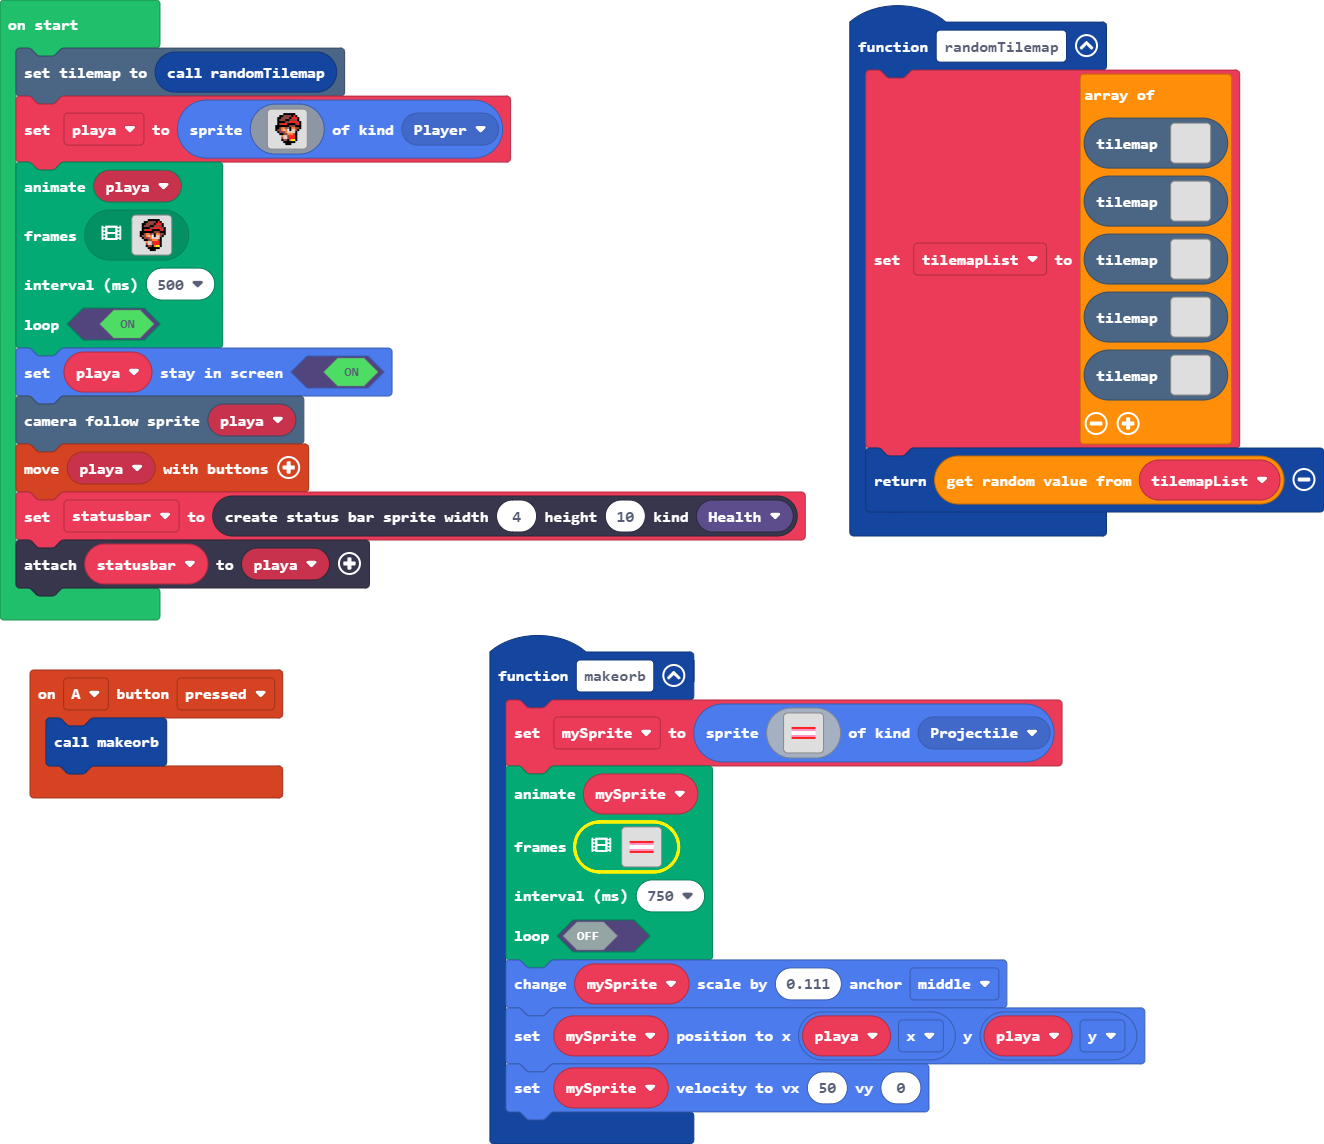
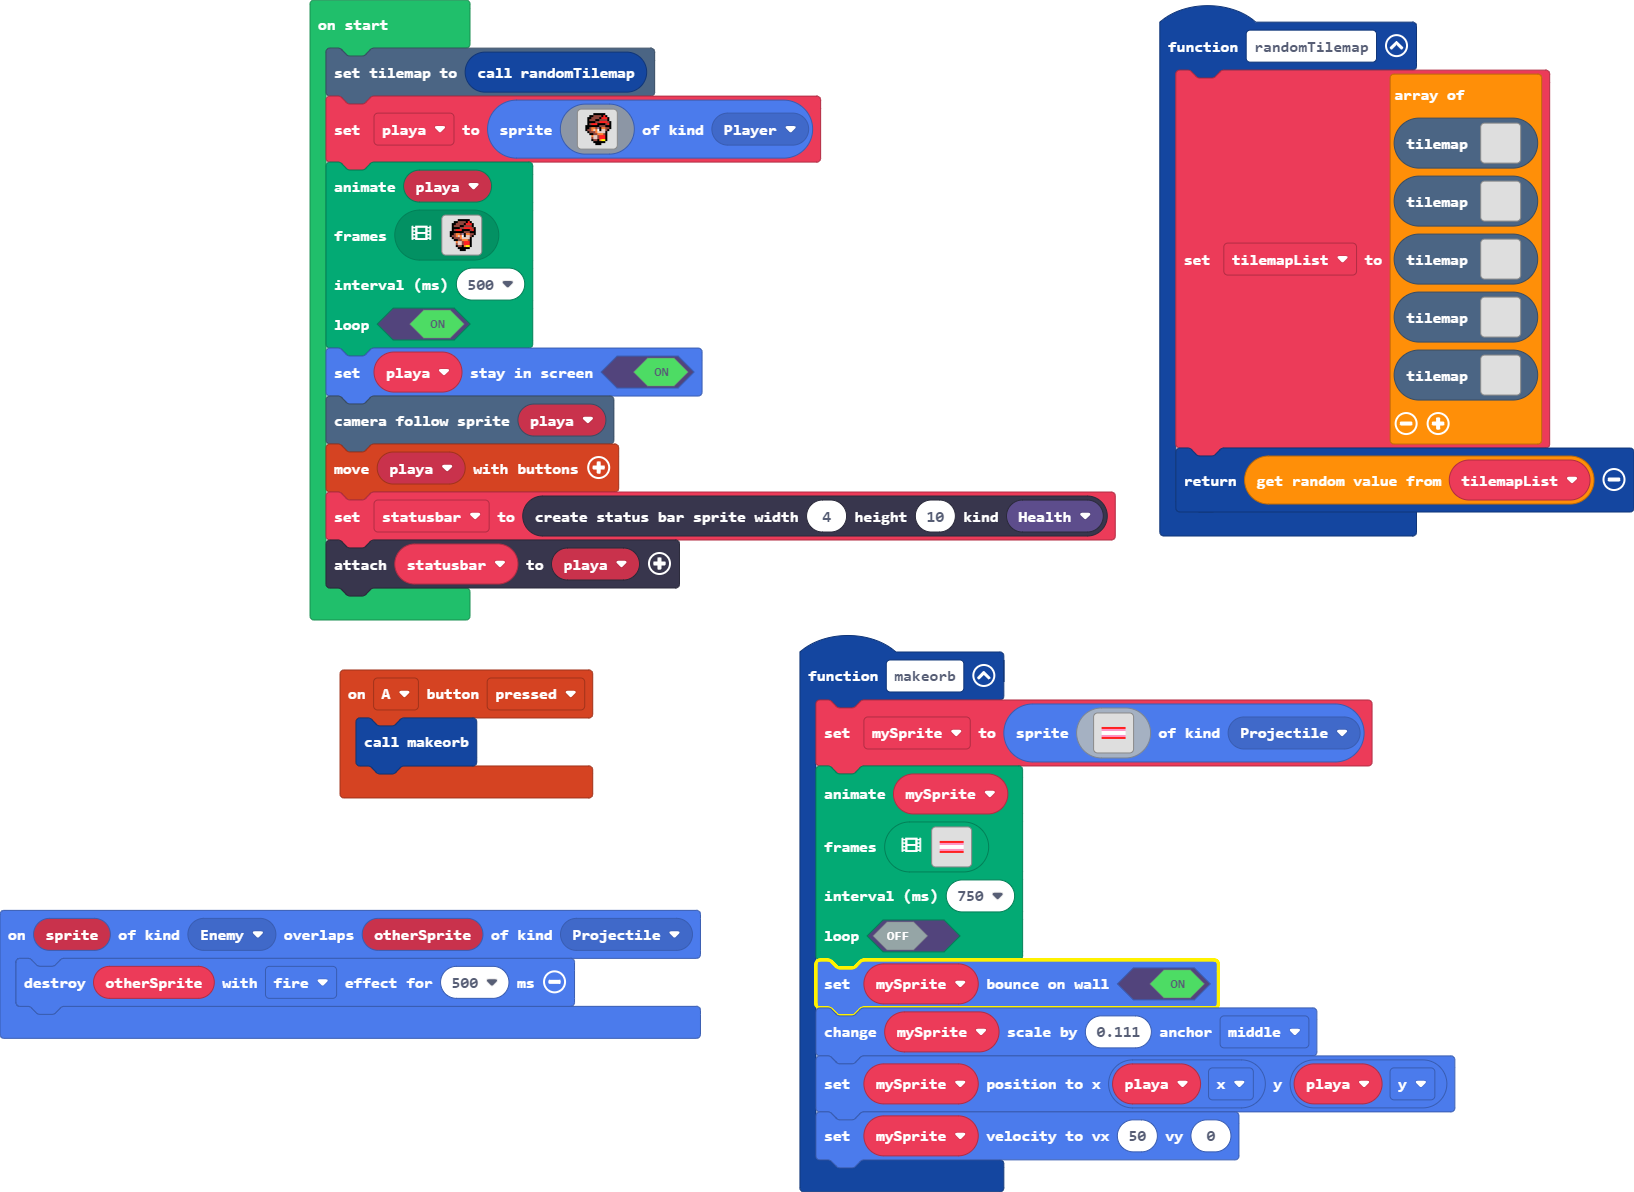
Update main.blocks, main.ts

diff --git a/main.ts b/main.ts
@@ -108,12 +108,16 @@ function makeorb () {
     750,
     false
     )
+    mySprite.setBounceOnWall(true)
     mySprite.changeScale(0.111, ScaleAnchor.Middle)
     mySprite.setPosition(playa.x, playa.y)
     mySprite.setVelocity(50, 0)
 }
 controller.A.onEvent(ControllerButtonEvent.Pressed, function () {
     makeorb()
+})
+sprites.onOverlap(SpriteKind.Enemy, SpriteKind.Projectile, function (sprite, otherSprite) {
+    sprites.destroy(otherSprite, effects.fire, 500)
 })
 function randomTilemap () {
     tilemapList = [
